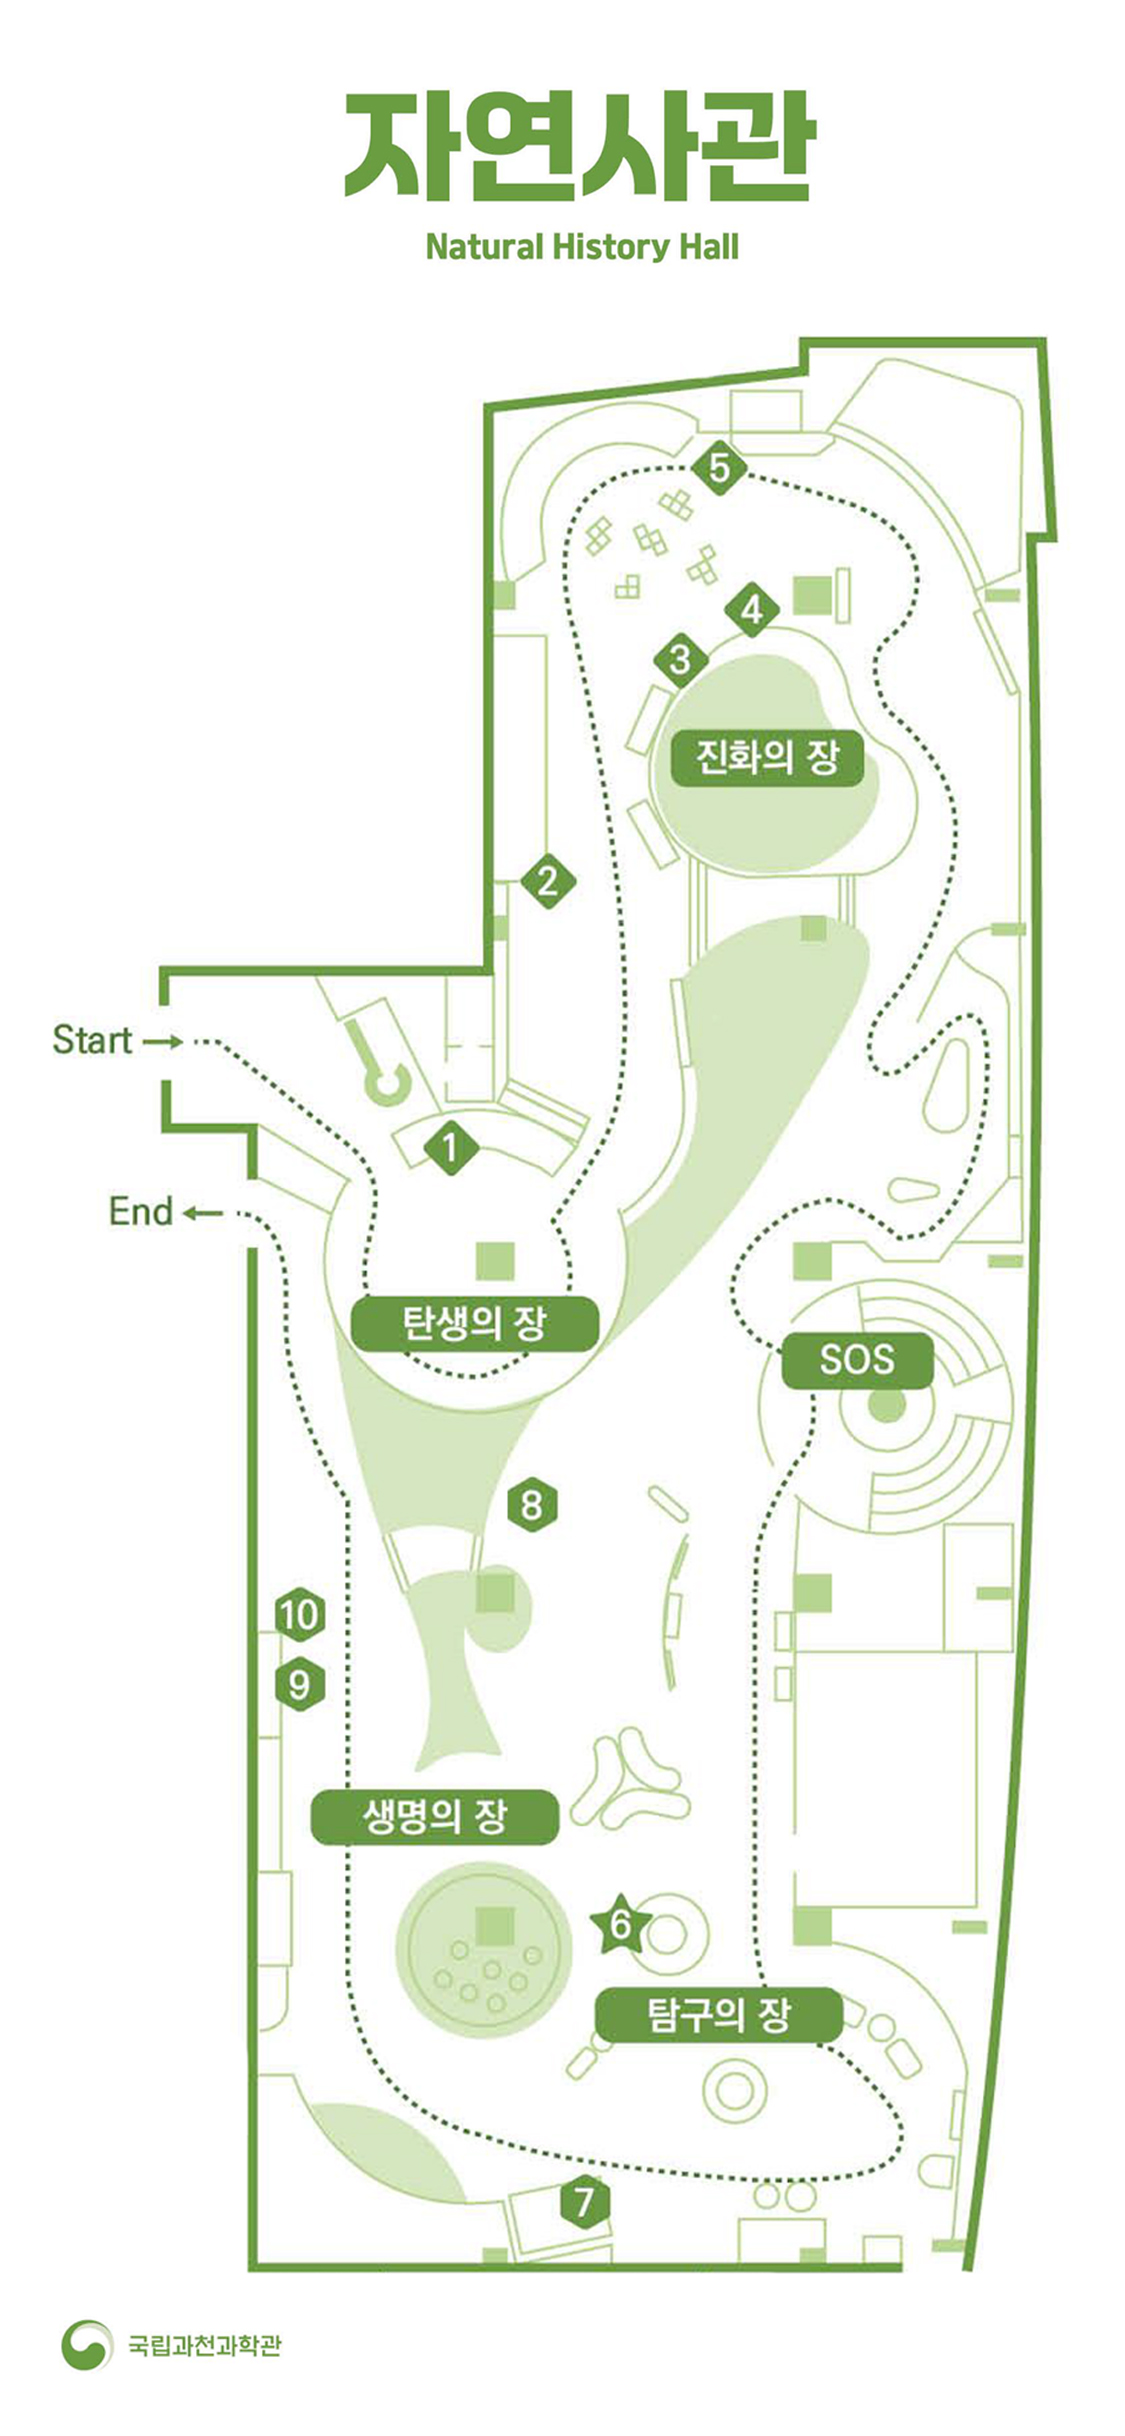
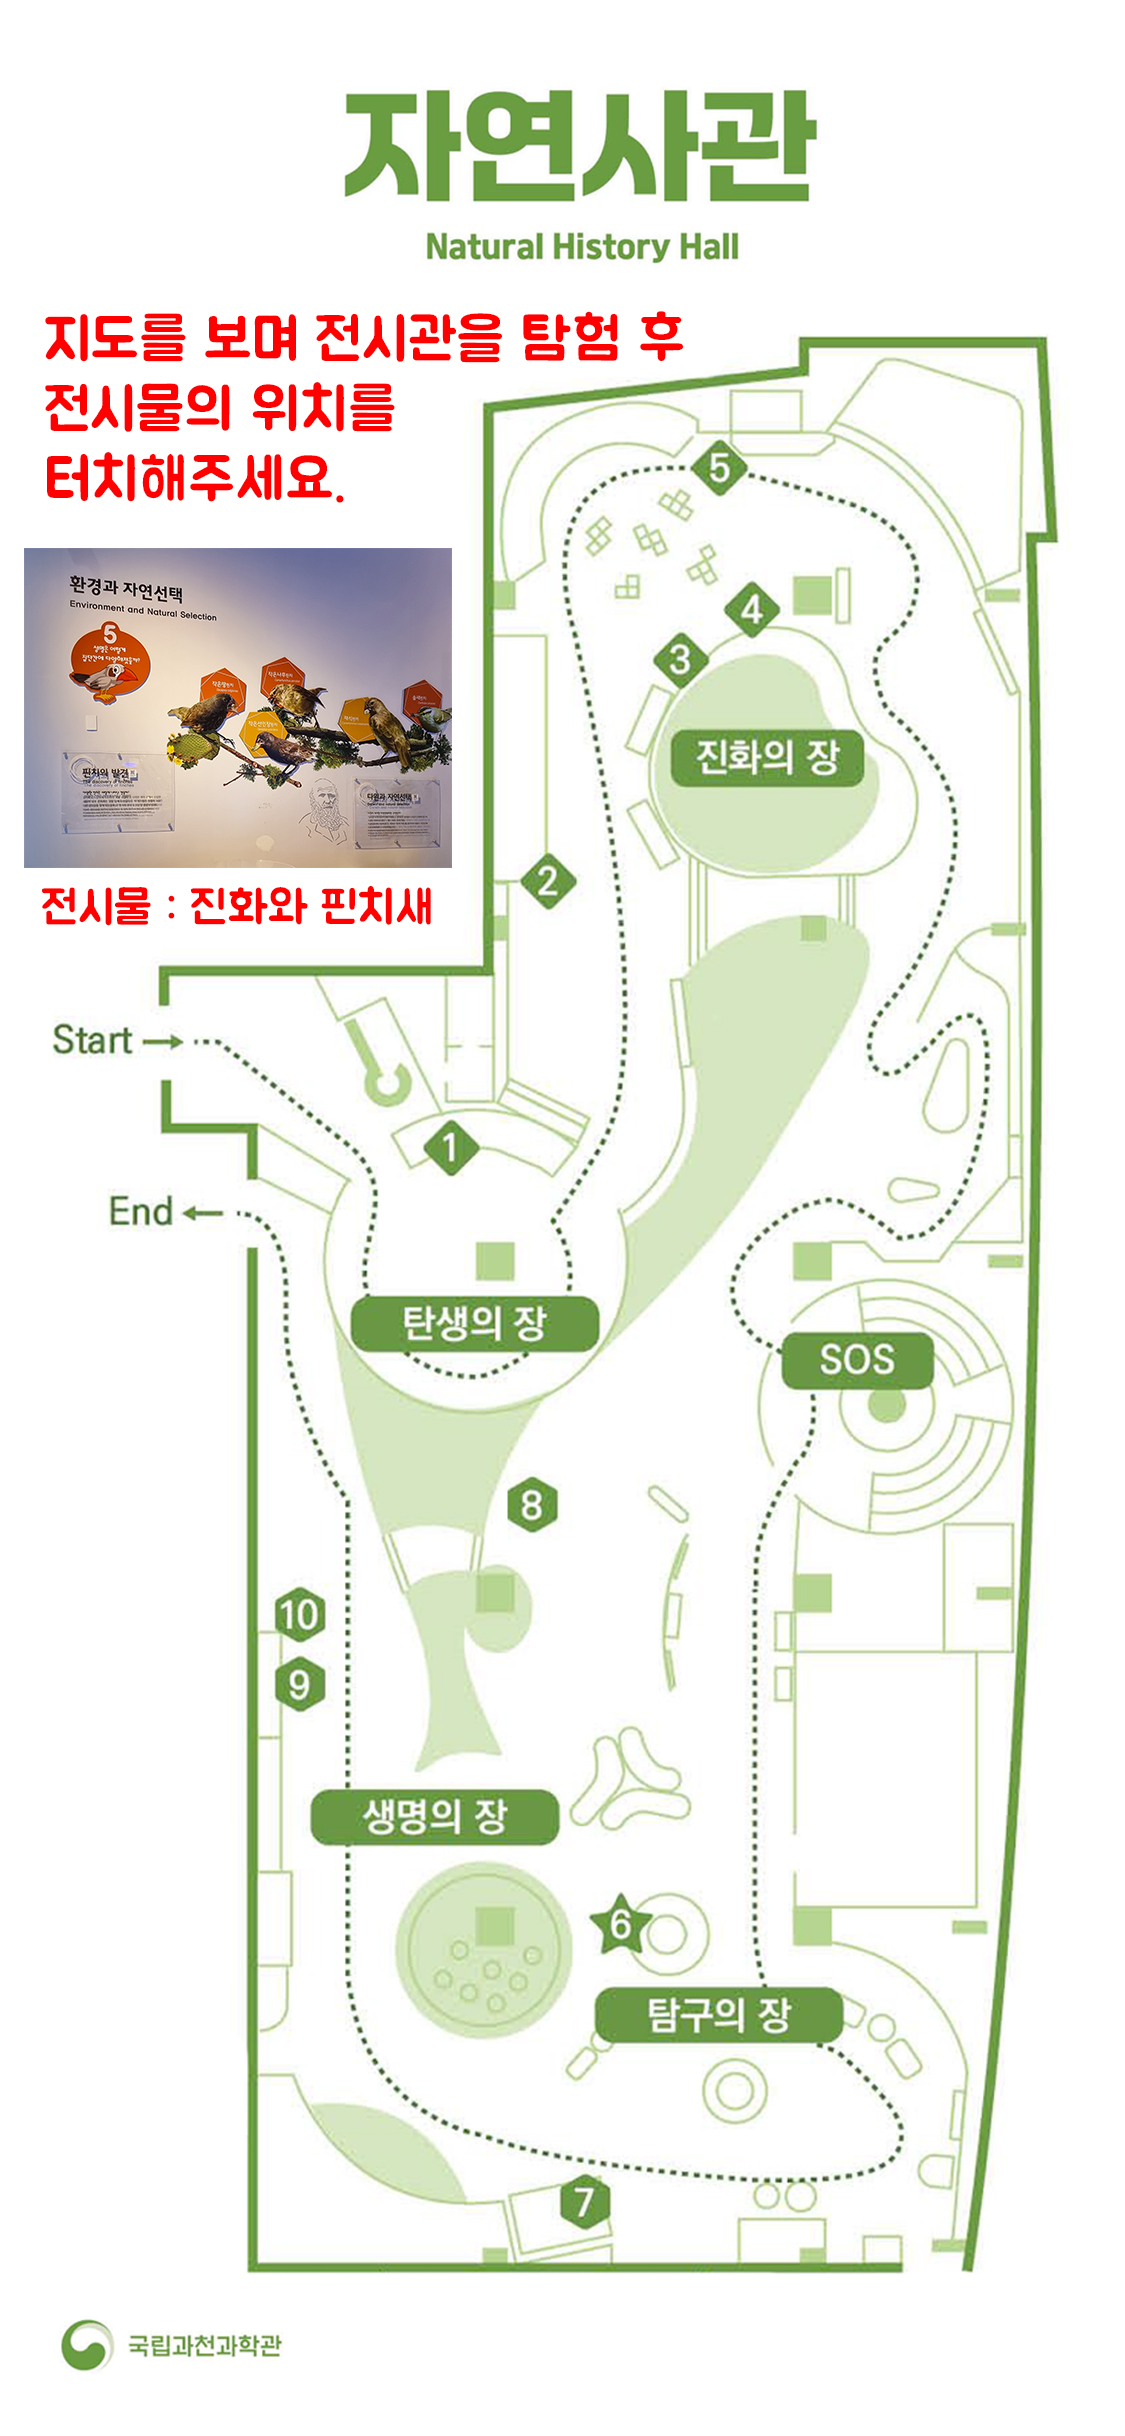
[MOD] 지도 페이지 이미지 수정 및 로직 수정

Changed region(s): [[0.0, 0.1248, 0.6222, 0.4056]]

diff --git a/src/app/map/3/page.tsx b/src/app/map/3/page.tsx
@@ -11,14 +11,12 @@ const areas: Area[] = [
 export default function MapPage() {
     const [selectedModal, setSelectedModal] = useState<"success" | "fail" | null>(null);
     const [showDescription, setShowDescription] = useState<boolean>(true);
-    const [showZoomHint, setShowZoomHint] = useState<boolean>(false);
     const router = useRouter();
     const imgRef = useRef<HTMLImageElement | null>(null);
 
     useEffect(() => {
         const timer = setTimeout(() => {
             setShowDescription(false);
-            setShowZoomHint(true);
         }, 4000);
 
         return () => clearTimeout(timer);
@@ -29,20 +27,12 @@ export default function MapPage() {
         if (showDescription) {
             return;
         }
-        if (showZoomHint) {
-            setShowZoomHint(false);
-            return;
-        }
         setSelectedModal("fail");
     };
 
     const handleAreaClick = (e: React.MouseEvent, area: Area) => {
         e.stopPropagation();
         if (showDescription) {
-            return;
-        }
-        if (showZoomHint) {
-            setShowZoomHint(false);
             return;
         }
         setSelectedModal("success");
@@ -88,22 +78,6 @@ export default function MapPage() {
                                 alt="지도 안내 이미지"
                                 className="w-[85%] max-w-[700px] h-auto drop-shadow-xl"
                             />
-                        </div>
-                    </div>
-                )}
-
-                {/* 두 번째 안내: 좌상단 텍스트 힌트 */}
-                {showZoomHint && !showDescription && (
-                    <div
-                        className="absolute z-30"
-                        style={{
-                            top: "9.7%",
-                            right: "9%",
-                        }}
-                    >
-                        <div
-                            className="rounded-xl px-4 py-3 whitespace-pre-line text-black font-extrabold leading-relaxed text-base">
-                            지도를 움직여서 숨겨진 위치를 찾아보세요!
                         </div>
                     </div>
                 )}

diff --git a/src/app/map/4/page.tsx b/src/app/map/4/page.tsx
@@ -11,14 +11,12 @@ const areas: Area[] = [
 export default function MapPage() {
     const [selectedModal, setSelectedModal] = useState<"success" | "fail" | null>(null);
     const [showDescription, setShowDescription] = useState<boolean>(true);
-    const [showZoomHint, setShowZoomHint] = useState<boolean>(false);
     const router = useRouter();
     const imgRef = useRef<HTMLImageElement | null>(null);
 
     useEffect(() => {
         const timer = setTimeout(() => {
             setShowDescription(false);
-            setShowZoomHint(true);
         }, 4000);
 
         return () => clearTimeout(timer);
@@ -29,20 +27,12 @@ export default function MapPage() {
         if (showDescription) {
             return;
         }
-        if (showZoomHint) {
-            setShowZoomHint(false);
-            return;
-        }
         setSelectedModal("fail");
     };
 
     const handleAreaClick = (e: React.MouseEvent, area: Area) => {
         e.stopPropagation();
         if (showDescription) {
-            return;
-        }
-        if (showZoomHint) {
-            setShowZoomHint(false);
             return;
         }
         setSelectedModal("success");
@@ -88,22 +78,6 @@ export default function MapPage() {
                                 alt="지도 안내 이미지"
                                 className="w-[85%] max-w-[700px] h-auto drop-shadow-xl"
                             />
-                        </div>
-                    </div>
-                )}
-
-                {/* 두 번째 안내: 좌상단 텍스트 힌트 */}
-                {showZoomHint && !showDescription && (
-                    <div
-                        className="absolute z-30"
-                        style={{
-                            top: "9.5%",
-                            right: "8%",
-                        }}
-                    >
-                        <div
-                            className="rounded-xl px-4 py-3 whitespace-pre-line text-black font-extrabold leading-relaxed text-base">
-                            지도를 움직여서 숨겨진 위치를 찾아보세요!
                         </div>
                     </div>
                 )}

diff --git a/src/app/map/1/page.tsx b/src/app/map/1/page.tsx
@@ -11,14 +11,12 @@ const areas: Area[] = [
 export default function MapPage() {
     const [selectedModal, setSelectedModal] = useState<"success" | "fail" | null>(null);
     const [showDescription, setShowDescription] = useState<boolean>(true);
-    const [showZoomHint, setShowZoomHint] = useState<boolean>(false);
     const router = useRouter();
     const imgRef = useRef<HTMLImageElement | null>(null);
 
     useEffect(() => {
         const timer = setTimeout(() => {
             setShowDescription(false);
-            setShowZoomHint(true);
         }, 4000);
 
         return () => clearTimeout(timer);
@@ -29,20 +27,12 @@ export default function MapPage() {
         if (showDescription) {
             return;
         }
-        if (showZoomHint) {
-            setShowZoomHint(false);
-            return;
-        }
         setSelectedModal("fail");
     };
 
     const handleAreaClick = (e: React.MouseEvent, area: Area) => {
         e.stopPropagation();
         if (showDescription) {
-            return;
-        }
-        if (showZoomHint) {
-            setShowZoomHint(false);
             return;
         }
         setSelectedModal("success");
@@ -88,22 +78,6 @@ export default function MapPage() {
                                 alt="지도 안내 이미지"
                                 className="w-[85%] max-w-[700px] h-auto drop-shadow-xl"
                             />
-                        </div>
-                    </div>
-                )}
-
-                {/* 두 번째 안내: 좌상단 텍스트 힌트 */}
-                {showZoomHint && !showDescription && (
-                    <div
-                        className="absolute z-30"
-                        style={{
-                            top: "10%",
-                            right: "5%",
-                        }}
-                    >
-                        <div
-                            className="rounded-xl px-4 py-3 whitespace-pre-line text-black font-extrabold leading-relaxed text-base">
-                            지도를 움직여서 숨겨진 위치를 찾아보세요!
                         </div>
                     </div>
                 )}

diff --git a/src/app/map/2/page.tsx b/src/app/map/2/page.tsx
@@ -11,14 +11,12 @@ const areas: Area[] = [
 export default function MapPage() {
     const [selectedModal, setSelectedModal] = useState<"success" | "fail" | null>(null);
     const [showDescription, setShowDescription] = useState<boolean>(true);
-    const [showZoomHint, setShowZoomHint] = useState<boolean>(false);
     const router = useRouter();
     const imgRef = useRef<HTMLImageElement | null>(null);
 
     useEffect(() => {
         const timer = setTimeout(() => {
             setShowDescription(false);
-            setShowZoomHint(true);
         }, 4000);
 
         return () => clearTimeout(timer);
@@ -29,20 +27,12 @@ export default function MapPage() {
         if (showDescription) {
             return;
         }
-        if (showZoomHint) {
-            setShowZoomHint(false);
-            return;
-        }
         setSelectedModal("fail");
     };
 
     const handleAreaClick = (e: React.MouseEvent, area: Area) => {
         e.stopPropagation();
         if (showDescription) {
-            return;
-        }
-        if (showZoomHint) {
-            setShowZoomHint(false);
             return;
         }
         setSelectedModal("success");
@@ -88,21 +78,6 @@ export default function MapPage() {
                                 alt="지도 안내 이미지"
                                 className="w-[85%] max-w-[700px] h-auto drop-shadow-xl"
                             />
-                        </div>
-                    </div>
-                )}
-
-                {/* 두 번째 안내: 좌상단 텍스트 힌트 */}
-                {showZoomHint && !showDescription && (
-                    <div
-                        className="absolute z-30"
-                        style={{
-                            top: "12%",
-                            right: "8%",
-                        }}
-                    >
-                        <div className="rounded-xl px-4 py-3 whitespace-pre-line text-black font-extrabold leading-relaxed text-base">
-                            지도를 움직여서 숨겨진 위치를 찾아보세요!
                         </div>
                     </div>
                 )}
